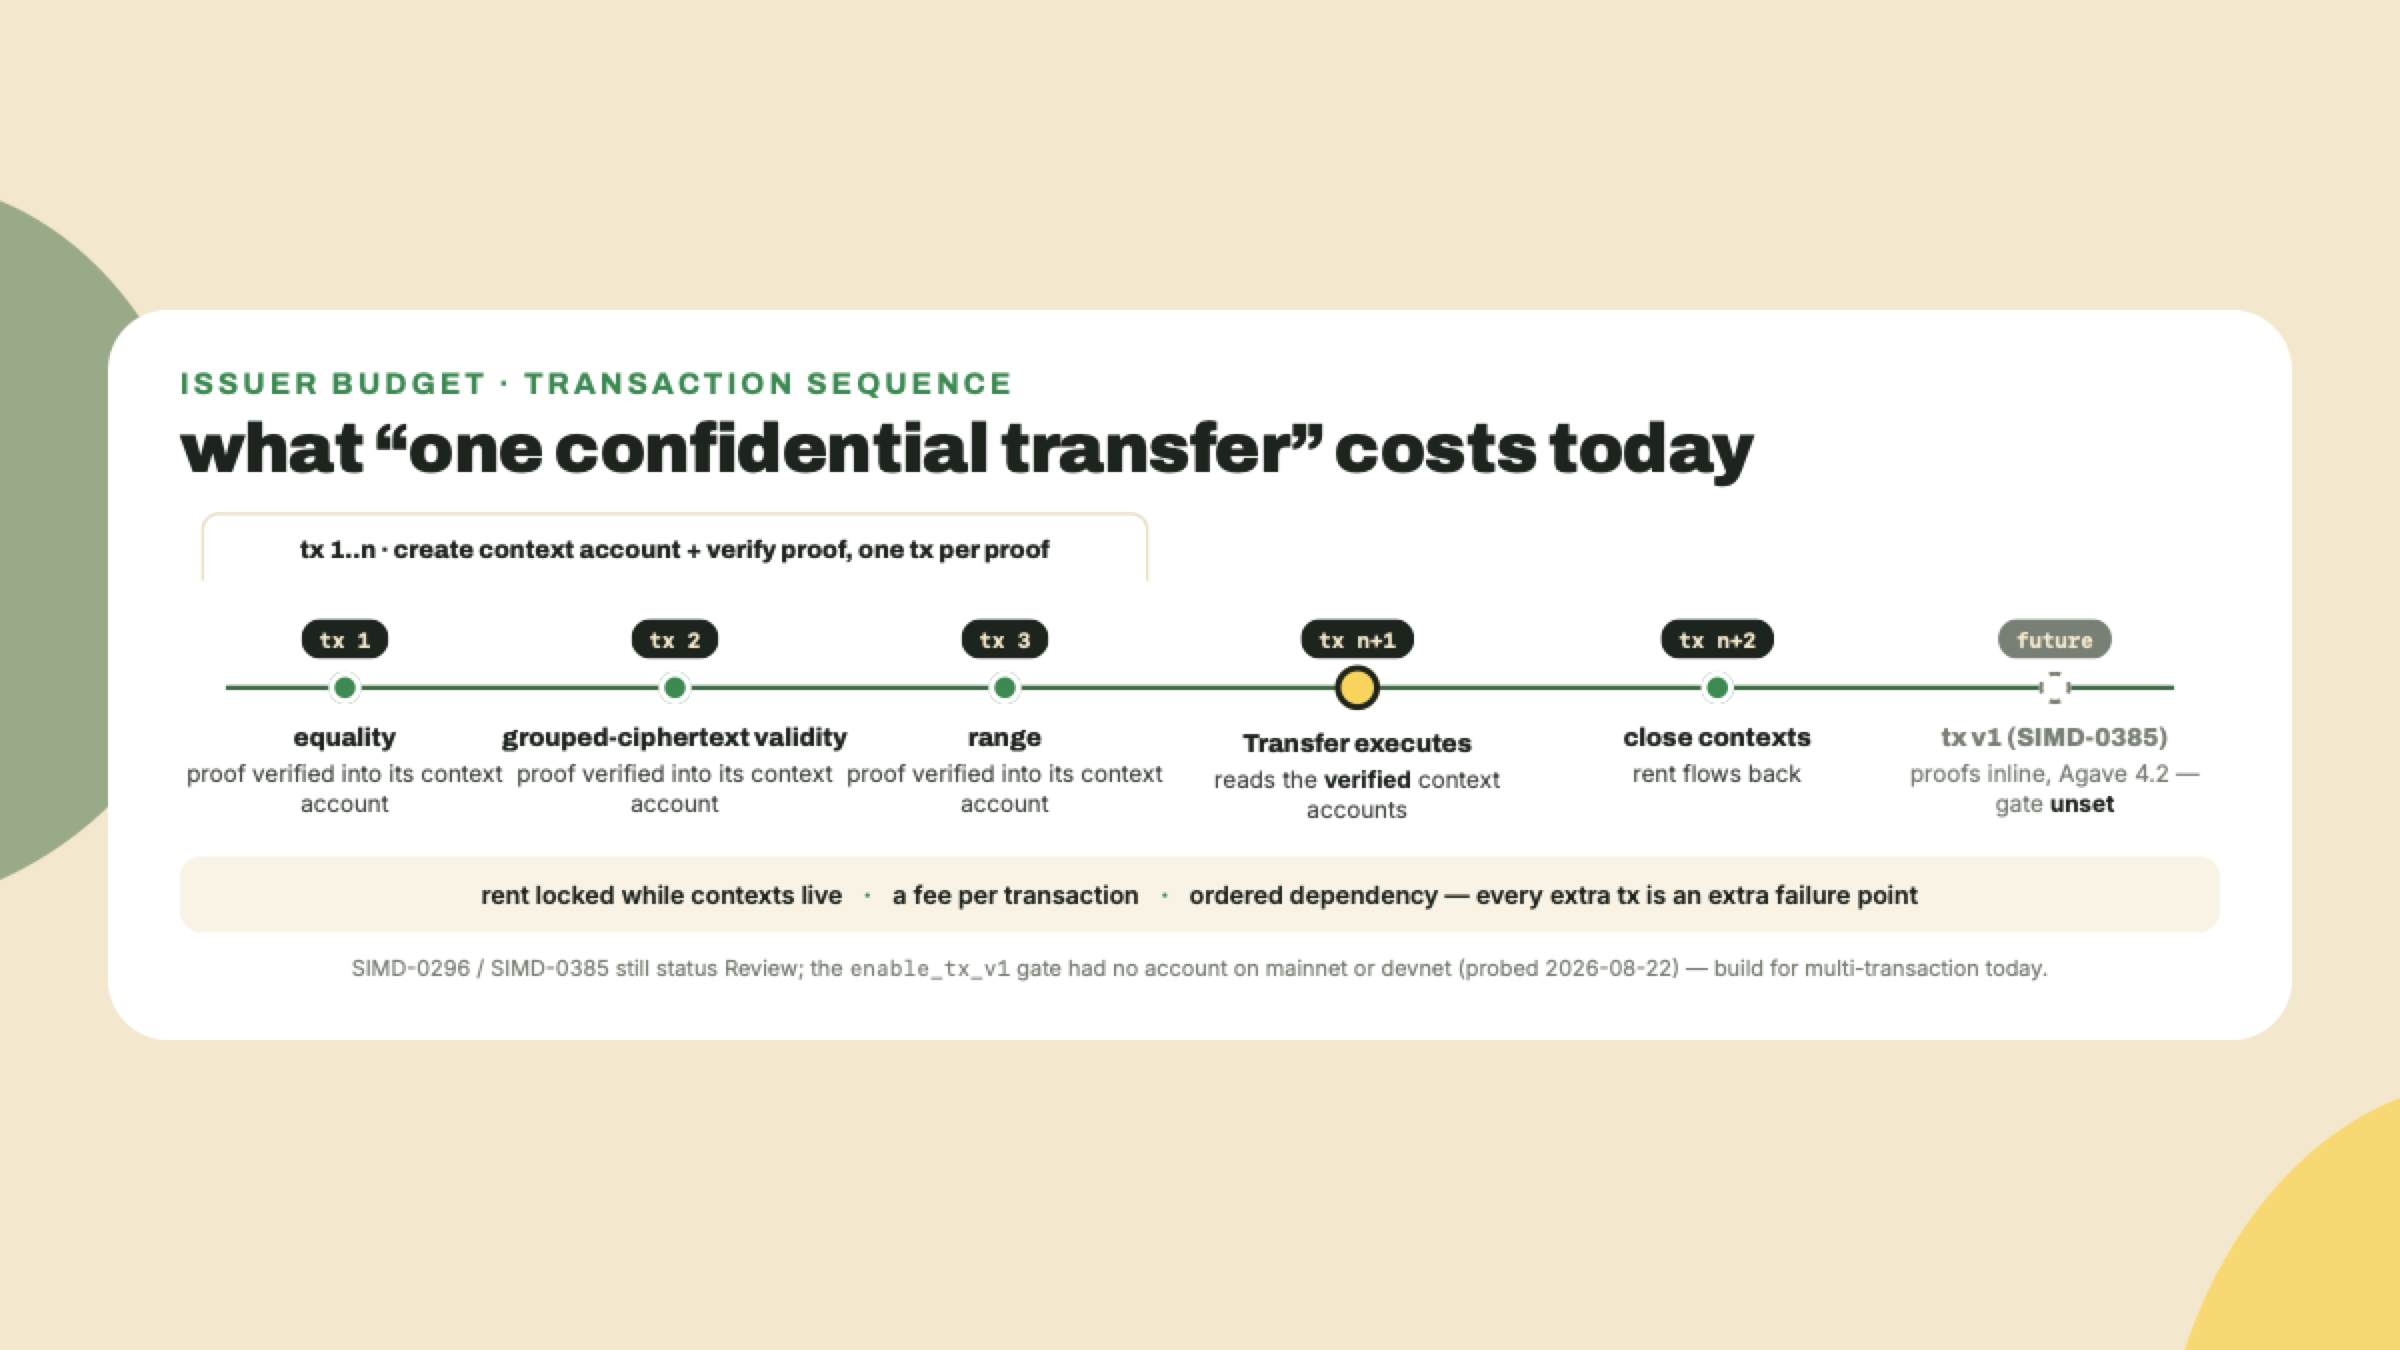
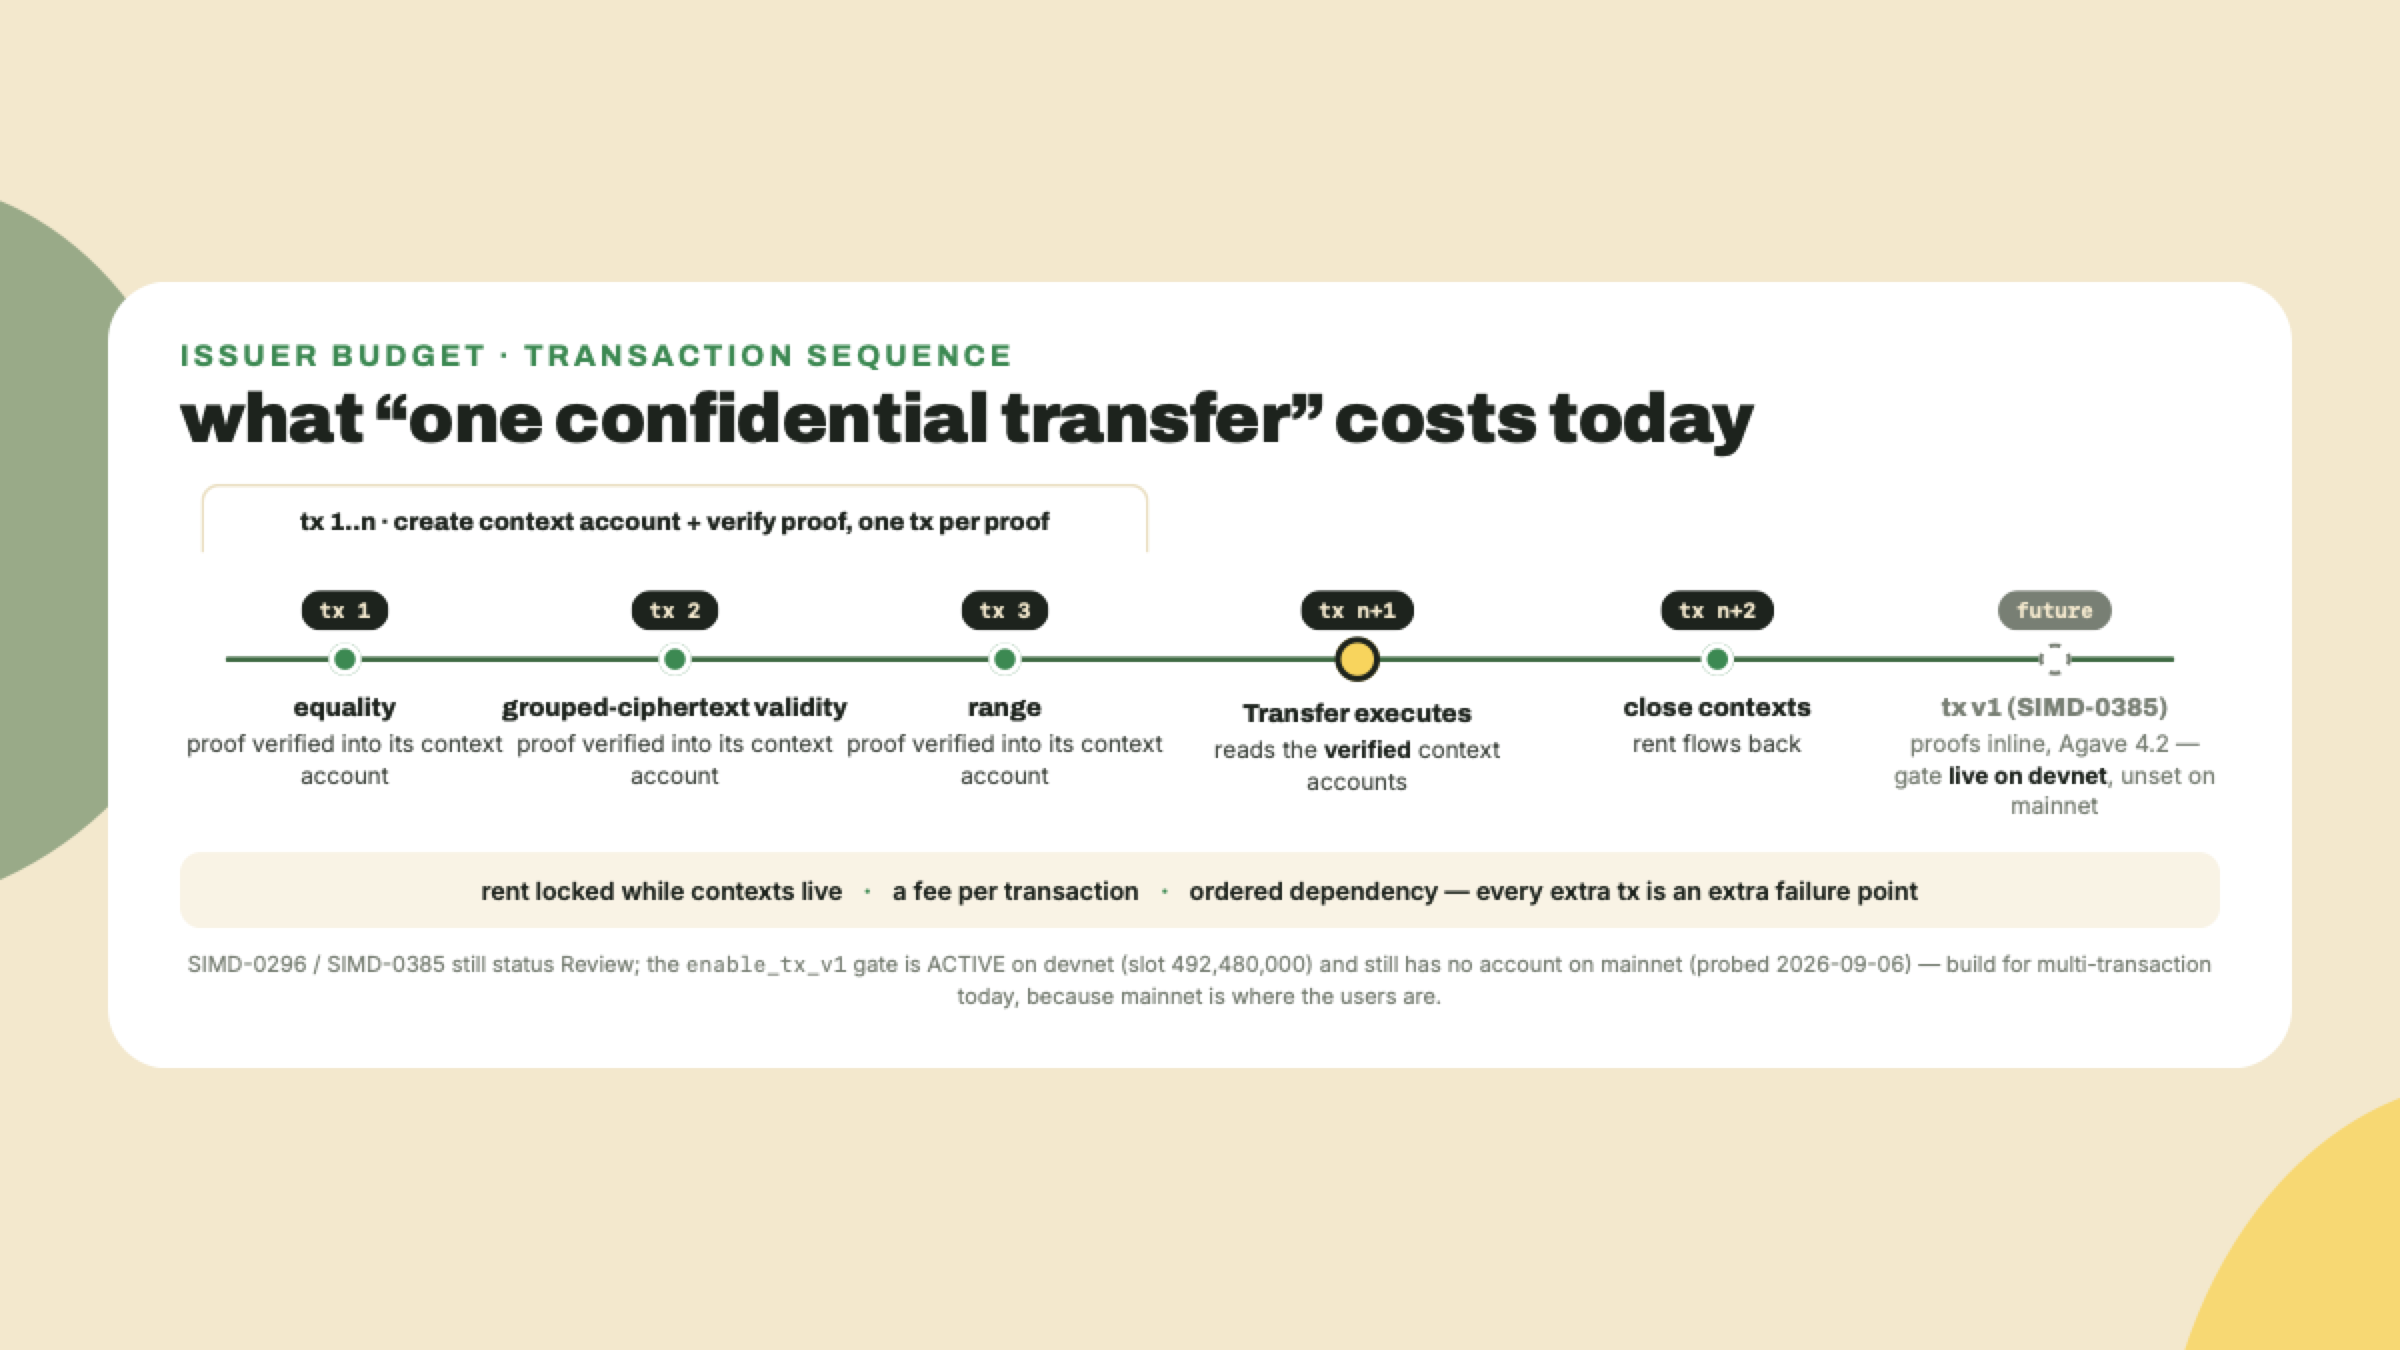
fix(digital-assets m04-l2): the enable_tx_v1 timeline shipped a probe the spec had already retracted
The rendered body said the gate "had no account on mainnet or devnet
(probed 2026-08-22)" while the spec beside it recorded ACTIVE ON DEVNET
at slot 492,480,000, probed 2026-09-06. Same defect class as the rent
figures in the next commit: the comment was corrected and the markup was
not, so the shipped PNG kept teaching the retracted probe.

Corrected in the markup -- the future chip now reads "live on devnet,
unset on mainnet" and the note carries the slot, both probe dates and
the reason the lab still builds for multi-transaction (mainnet is where
the users are). Re-rendered from the committed HTML; decor untouched.

Changed region(s): [[0.0312, 0.1867, 0.9688, 0.6222], [0.0312, 0.6533, 0.9688, 0.8089]]

diff --git a/courses/digital-assets/visual-src/m04-l2-issuer-ops/v03-timeline.html b/courses/digital-assets/visual-src/m04-l2-issuer-ops/v03-timeline.html
@@ -73,12 +73,12 @@
       </div>
       <div class="grp" style="width:220px;">
         <div class="gcap ghost"></div>
-        <div class="grow"><div class="st future"><div class="above"><div class="txchip" style="background:var(--text-muted);">future</div></div><div class="dot ghost"></div><div class="below"><span class="n">tx v1 (SIMD-0385)</span>proofs inline, Agave 4.2 &mdash; gate <b>unset</b></div></div></div>
+        <div class="grow"><div class="st future"><div class="above"><div class="txchip" style="background:var(--text-muted);">future</div></div><div class="dot ghost"></div><div class="below"><span class="n">tx v1 (SIMD-0385)</span>proofs inline, Agave 4.2 &mdash; gate <b>live on devnet</b>, unset on mainnet</div></div></div>
       </div>
     </div>
   </div>
   <div class="cost"><span>rent locked while contexts live</span><span class="sep">&middot;</span><span>a fee per transaction</span><span class="sep">&middot;</span><span>ordered dependency &mdash; every extra tx is an extra failure point</span></div>
-  <div class="note">SIMD-0296 / SIMD-0385 still status Review; the <span style="font-family:var(--font-mono);">enable_tx_v1</span> gate had no account on mainnet or devnet (probed 2026-08-22) &mdash; build for multi-transaction today.</div>
+  <div class="note">SIMD-0296 / SIMD-0385 still status Review; the <span style="font-family:var(--font-mono);">enable_tx_v1</span> gate is ACTIVE on devnet (slot 492,480,000) and still has no account on mainnet (probed 2026-09-06) &mdash; build for multi-transaction today, because mainnet is where the users are.</div>
 </div>
 </div>
 </body></html>
